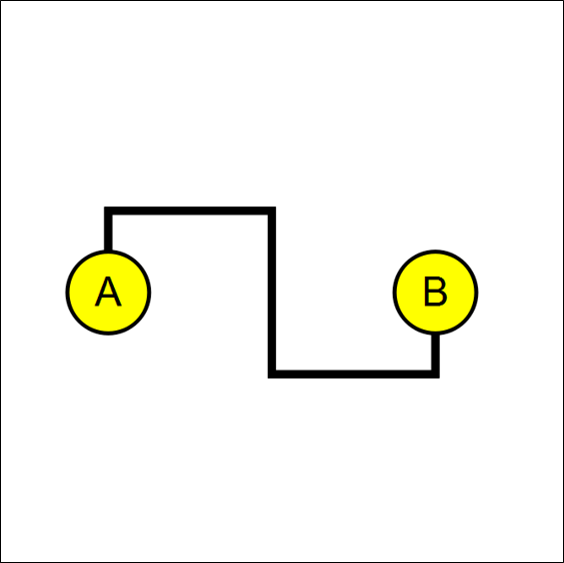
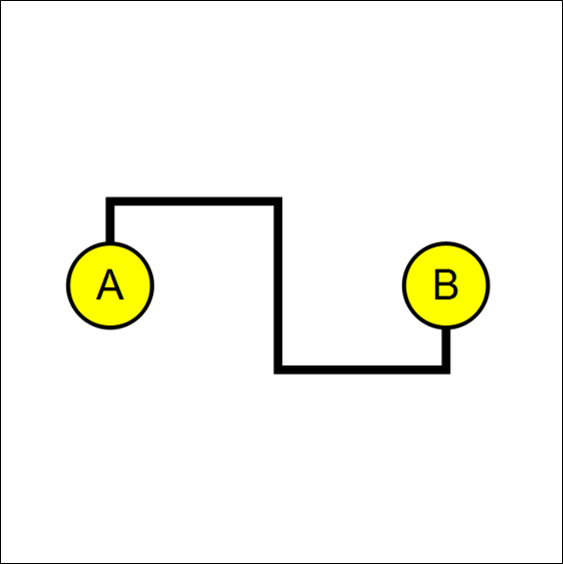
Add link04.png

Changed region(s): [[0.0906, 0.3321, 0.8757, 0.6945]]

diff --git a/examples/gallery.md b/examples/gallery.md
@@ -494,6 +494,65 @@
 
   </td>
   </tr>
+
+
+
+  <tr>
+  <td>
+  <img src="images/link04.png" alt="Drawing" width="300px"/>
+  </td>
+  <td>
+
+  ```python
+  from qtpy.QtCore import Qt
+  from qtpy.QtCore import QPointF
+  
+  from nezzle.graphics import EllipseNode
+  from nezzle.graphics import TextLabel
+  from nezzle.graphics import HorizontalElbowLink
+  from nezzle.graphics import Network
+  
+  
+  def update(nav, net):
+      net = Network("A single horizontal elbow edge")
+  
+      src = EllipseNode("SRC", 40, 40, pos=QPointF(0, -80))
+      src['FILL_COLOR'] = Qt.yellow
+      src["BORDER_COLOR"] = Qt.black
+      src['BORDER_WIDTH'] = 2
+  
+      tgt = EllipseNode("TGT", 40, 40, pos=QPointF(0, 80))
+      tgt['FILL_COLOR'] = Qt.yellow
+      tgt["BORDER_COLOR"] = Qt.black
+      tgt['BORDER_WIDTH'] = 2
+  
+      link = HorizontalElbowLink("LINK", src, tgt, width=4)
+      link["CP0_POS_X"] = -40
+      link["CP0_POS_Y"] = 0
+      link["CP2_POS_X"] = 40
+      link["CP2_POS_Y"] = 0
+  
+      label_src = TextLabel(src, "A")
+      label_src["FONT_SIZE"] = 20
+      label_src["TEXT_COLOR"] = Qt.black
+      label_src.align()
+  
+      label_tgt = TextLabel(tgt, "B")
+      label_tgt["FONT_SIZE"] = 20
+      label_tgt["TEXT_COLOR"] = Qt.black
+      label_tgt.align()
+  
+      net.add_node(src)
+      net.add_node(tgt)
+      net.add_link(link)
+      net.add_label(label_src)
+      net.add_label(label_tgt)
+  
+      nav.append_item(net)
+  ```
+
+  </td>
+  </tr>
 </table>
 
 
